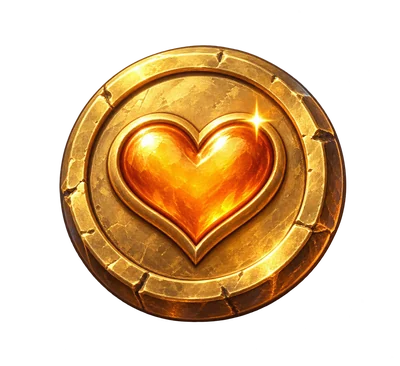
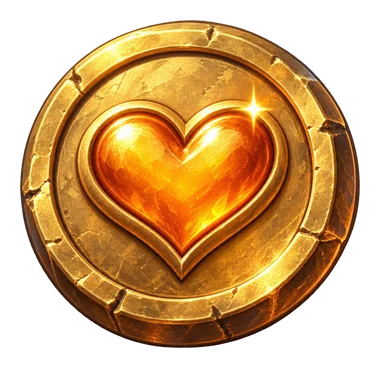
izvor: Novčić utjehe pri bacanju moći (zlatni naziv, novčić se zavrti uz lik, izrezana ikona) (neobjavljeno)
Claude-Session: https://claude.ai/code/session_01Hox85WhNuW9YNgDCoc2eez

diff --git a/web/site/index.html b/web/site/index.html
@@ -2,7 +2,7 @@
 <html lang="hr">
 <head>
 <meta charset="utf-8">
-<meta http-equiv="Content-Security-Policy" content="default-src 'self'; script-src 'self' https://unpkg.com/peerjs@1.5.4/dist/peerjs.min.js 'sha256-kFCcO4s/LoUwGE8PrnjxCQIBvLTUrqCcAMfvlXyNMTU=' 'sha256-wyvvXqxLAZ3m7/jAoeI3NAIBNFS5G/udmg/sIXlWuQI='; style-src 'self' 'unsafe-inline' https://fonts.googleapis.com; font-src 'self' https://fonts.gstatic.com data:; img-src 'self' data: blob:; media-src 'self' data: blob:; worker-src 'self'; manifest-src 'self'; connect-src 'self' https://0.peerjs.com wss://0.peerjs.com wss://broker.emqx.io:8084 wss://broker.hivemq.com:8884 wss://test.mosquitto.org:8081 https://unpkg.com https://fonts.googleapis.com https://fonts.gstatic.com; object-src 'none'; base-uri 'none'; form-action 'none'; frame-src 'none'">
+<meta http-equiv="Content-Security-Policy" content="default-src 'self'; script-src 'self' https://unpkg.com/peerjs@1.5.4/dist/peerjs.min.js 'sha256-zLWAH/vdzRUkD30aKRERCNpOzqLUCyo2WD/GderVonM=' 'sha256-wyvvXqxLAZ3m7/jAoeI3NAIBNFS5G/udmg/sIXlWuQI='; style-src 'self' 'unsafe-inline' https://fonts.googleapis.com; font-src 'self' https://fonts.gstatic.com data:; img-src 'self' data: blob:; media-src 'self' data: blob:; worker-src 'self'; manifest-src 'self'; connect-src 'self' https://0.peerjs.com wss://0.peerjs.com wss://broker.emqx.io:8084 wss://broker.hivemq.com:8884 wss://test.mosquitto.org:8081 https://unpkg.com https://fonts.googleapis.com https://fonts.gstatic.com; object-src 'none'; base-uri 'none'; form-action 'none'; frame-src 'none'">
 <meta name="referrer" content="no-referrer">
 <meta name="viewport" content="width=device-width,initial-scale=1,viewport-fit=cover">
 <meta name="theme-color" content="#0a1433">
@@ -1031,6 +1031,10 @@
   .pw-mini b { font-size: clamp(1rem, 1.4vw, 1.4rem); }
   .pw-mini span { font-size: clamp(0.72rem, 0.95vw, 0.95rem); }
   .pw-card > span:last-child, .pw-mini > div { left: 31.5%; right: 8.5%; }
+  .pw-utjeha { color: #f0c66a; }
+  .ccoin { position: absolute; left: 80%; top: 22%; width: 28%; z-index: 4; pointer-events: none; transform: translateX(-50%); filter: drop-shadow(0 0 12px rgba(255, 205, 90, 0.85)); animation: ccoinPop 1.5s ease-out both; }
+  @keyframes ccoinPop { 0% { opacity: 0; transform: translate(-50%, 45%) scale(0.3) rotateY(0deg); } 30% { opacity: 1; transform: translate(-50%, -18%) scale(1.12) rotateY(360deg); } 75% { opacity: 1; transform: translate(-50%, -12%) scale(1) rotateY(720deg); } 100% { opacity: 0; transform: translate(-50%, -30%) scale(0.9) rotateY(720deg); } }
+  @media (prefers-reduced-motion: reduce) { .ccoin { animation: ccoinFade 1.5s ease-out both; } @keyframes ccoinFade { 0%, 100% { opacity: 0; } 20%, 75% { opacity: 1; } } }
   .pw-img { object-fit: contain; filter: drop-shadow(0 2px 2px rgba(0, 0, 0, 0.45)); }
   .pw-ico .pw-img { width: 78%; height: 78%; }
   .pw-card .pw-ico, .pw-mini .pw-ico { background: radial-gradient(circle, rgba(255, 220, 150, 0.35), transparent 70%); }
@@ -4377,7 +4381,7 @@
           snd(SND[e.p]);
           if (e.p === 'stit') { fa.querySelector('.cshield').classList.add('on'); burst(core.x, core.y, 20, { color: COL.stit, v: 6, shape: 'spark' }); }
           if (e.p === 'dupli') { fa.classList.add('gold'); burst(core.x, core.y - 20 * S(), 26, { color: '#ffd23c', v: 6, up: 3, g: 0.12, shape: 'star' }); badge(fa, '×2', 'b-dupli'); }
-          if (e.p === 'utjeha') { burst(core.x, core.y - 20 * S(), 18, { color: '#ffd36a', v: 5, up: 2, g: 0.12, shape: 'star' }); badge(fa, 'UTJEHA', 'b-dupli'); }
+          if (e.p === 'utjeha') { burst(core.x, core.y - 20 * S(), 18, { color: '#ffd36a', v: 5, up: 2, g: 0.12, shape: 'star' }); badge(fa, 'UTJEHA', 'b-dupli'); fa.insertAdjacentHTML('beforeend', '<img class="ccoin" src="ui/pw-utjeha.webp" alt="" aria-hidden="true" draggable="false">'); const cc = fa.querySelector('.ccoin:last-of-type'); cc.addEventListener('animationend', () => cc.remove()); }
           if (e.p === 'pola') { burst(core.x, core.y - 30 * S(), 18, { color: '#f1dcb0', v: 5, shape: 'spark' }); badge(fa, '50:50', 'b-pola'); fa.insertAdjacentHTML('beforeend', '<span class="csplit"><i></i><i></i></span>'); }
           await sleep(per * 0.55); if (my !== run) return;
           pose(fa, fp.a, 'idle');

diff --git a/web/body.html b/web/body.html
@@ -1019,6 +1019,10 @@
   .pw-mini b { font-size: clamp(1rem, 1.4vw, 1.4rem); }
   .pw-mini span { font-size: clamp(0.72rem, 0.95vw, 0.95rem); }
   .pw-card > span:last-child, .pw-mini > div { left: 31.5%; right: 8.5%; }
+  .pw-utjeha { color: #f0c66a; }
+  .ccoin { position: absolute; left: 80%; top: 22%; width: 28%; z-index: 4; pointer-events: none; transform: translateX(-50%); filter: drop-shadow(0 0 12px rgba(255, 205, 90, 0.85)); animation: ccoinPop 1.5s ease-out both; }
+  @keyframes ccoinPop { 0% { opacity: 0; transform: translate(-50%, 45%) scale(0.3) rotateY(0deg); } 30% { opacity: 1; transform: translate(-50%, -18%) scale(1.12) rotateY(360deg); } 75% { opacity: 1; transform: translate(-50%, -12%) scale(1) rotateY(720deg); } 100% { opacity: 0; transform: translate(-50%, -30%) scale(0.9) rotateY(720deg); } }
+  @media (prefers-reduced-motion: reduce) { .ccoin { animation: ccoinFade 1.5s ease-out both; } @keyframes ccoinFade { 0%, 100% { opacity: 0; } 20%, 75% { opacity: 1; } } }
   .pw-img { object-fit: contain; filter: drop-shadow(0 2px 2px rgba(0, 0, 0, 0.45)); }
   .pw-ico .pw-img { width: 78%; height: 78%; }
   .pw-card .pw-ico, .pw-mini .pw-ico { background: radial-gradient(circle, rgba(255, 220, 150, 0.35), transparent 70%); }
@@ -4364,7 +4368,7 @@ __ENGINE__
           snd(SND[e.p]);
           if (e.p === 'stit') { fa.querySelector('.cshield').classList.add('on'); burst(core.x, core.y, 20, { color: COL.stit, v: 6, shape: 'spark' }); }
           if (e.p === 'dupli') { fa.classList.add('gold'); burst(core.x, core.y - 20 * S(), 26, { color: '#ffd23c', v: 6, up: 3, g: 0.12, shape: 'star' }); badge(fa, '×2', 'b-dupli'); }
-          if (e.p === 'utjeha') { burst(core.x, core.y - 20 * S(), 18, { color: '#ffd36a', v: 5, up: 2, g: 0.12, shape: 'star' }); badge(fa, 'UTJEHA', 'b-dupli'); }
+          if (e.p === 'utjeha') { burst(core.x, core.y - 20 * S(), 18, { color: '#ffd36a', v: 5, up: 2, g: 0.12, shape: 'star' }); badge(fa, 'UTJEHA', 'b-dupli'); fa.insertAdjacentHTML('beforeend', '<img class="ccoin" src="ui/pw-utjeha.webp" alt="" aria-hidden="true" draggable="false">'); const cc = fa.querySelector('.ccoin:last-of-type'); cc.addEventListener('animationend', () => cc.remove()); }
           if (e.p === 'pola') { burst(core.x, core.y - 30 * S(), 18, { color: '#f1dcb0', v: 5, shape: 'spark' }); badge(fa, '50:50', 'b-pola'); fa.insertAdjacentHTML('beforeend', '<span class="csplit"><i></i><i></i></span>'); }
           await sleep(per * 0.55); if (my !== run) return;
           pose(fa, fp.a, 'idle');

diff --git a/web/port-main3.py b/web/port-main3.py
@@ -7,3 +7,17 @@ for i, (old, new) in enumerate(json.load(open(SP + '/web/port-main3.json', encod
     s = s.replace(old, new)
 open(SP + '/web/body.html', 'w', encoding='utf-8').write(s)
 print('port-main3 OK')
+
+# Novčić utjehe pri bacanju moći: zlatni naziv kao ostale pomoći, novčić se zavrti iznad lika
+s = open(SP + '/web/body.html', encoding='utf-8').read()
+a = "badge(fa, 'UTJEHA', 'b-dupli'); }"
+assert s.count(a) == 1
+s = s.replace(a, "badge(fa, 'UTJEHA', 'b-dupli'); fa.insertAdjacentHTML('beforeend', '<img class=\"ccoin\" src=\"ui/pw-utjeha.webp\" alt=\"\" aria-hidden=\"true\" draggable=\"false\">'); const cc = fa.querySelector('.ccoin:last-of-type'); cc.addEventListener('animationend', () => cc.remove()); }")
+a = "  .pw-img { object-fit: contain;"
+assert s.count(a) == 1
+s = s.replace(a, "  .pw-utjeha { color: #f0c66a; }\n"
+  "  .ccoin { position: absolute; left: 80%; top: 22%; width: 28%; z-index: 4; pointer-events: none; transform: translateX(-50%); filter: drop-shadow(0 0 12px rgba(255, 205, 90, 0.85)); animation: ccoinPop 1.5s ease-out both; }\n"
+  "  @keyframes ccoinPop { 0% { opacity: 0; transform: translate(-50%, 45%) scale(0.3) rotateY(0deg); } 30% { opacity: 1; transform: translate(-50%, -18%) scale(1.12) rotateY(360deg); } 75% { opacity: 1; transform: translate(-50%, -12%) scale(1) rotateY(720deg); } 100% { opacity: 0; transform: translate(-50%, -30%) scale(0.9) rotateY(720deg); } }\n"
+  "  @media (prefers-reduced-motion: reduce) { .ccoin { animation: ccoinFade 1.5s ease-out both; } @keyframes ccoinFade { 0%, 100% { opacity: 0; } 20%, 75% { opacity: 1; } } }\n" + a)
+open(SP + '/web/body.html', 'w', encoding='utf-8').write(s)
+print('port-main3: novčić utjehe pri bacanju OK')
